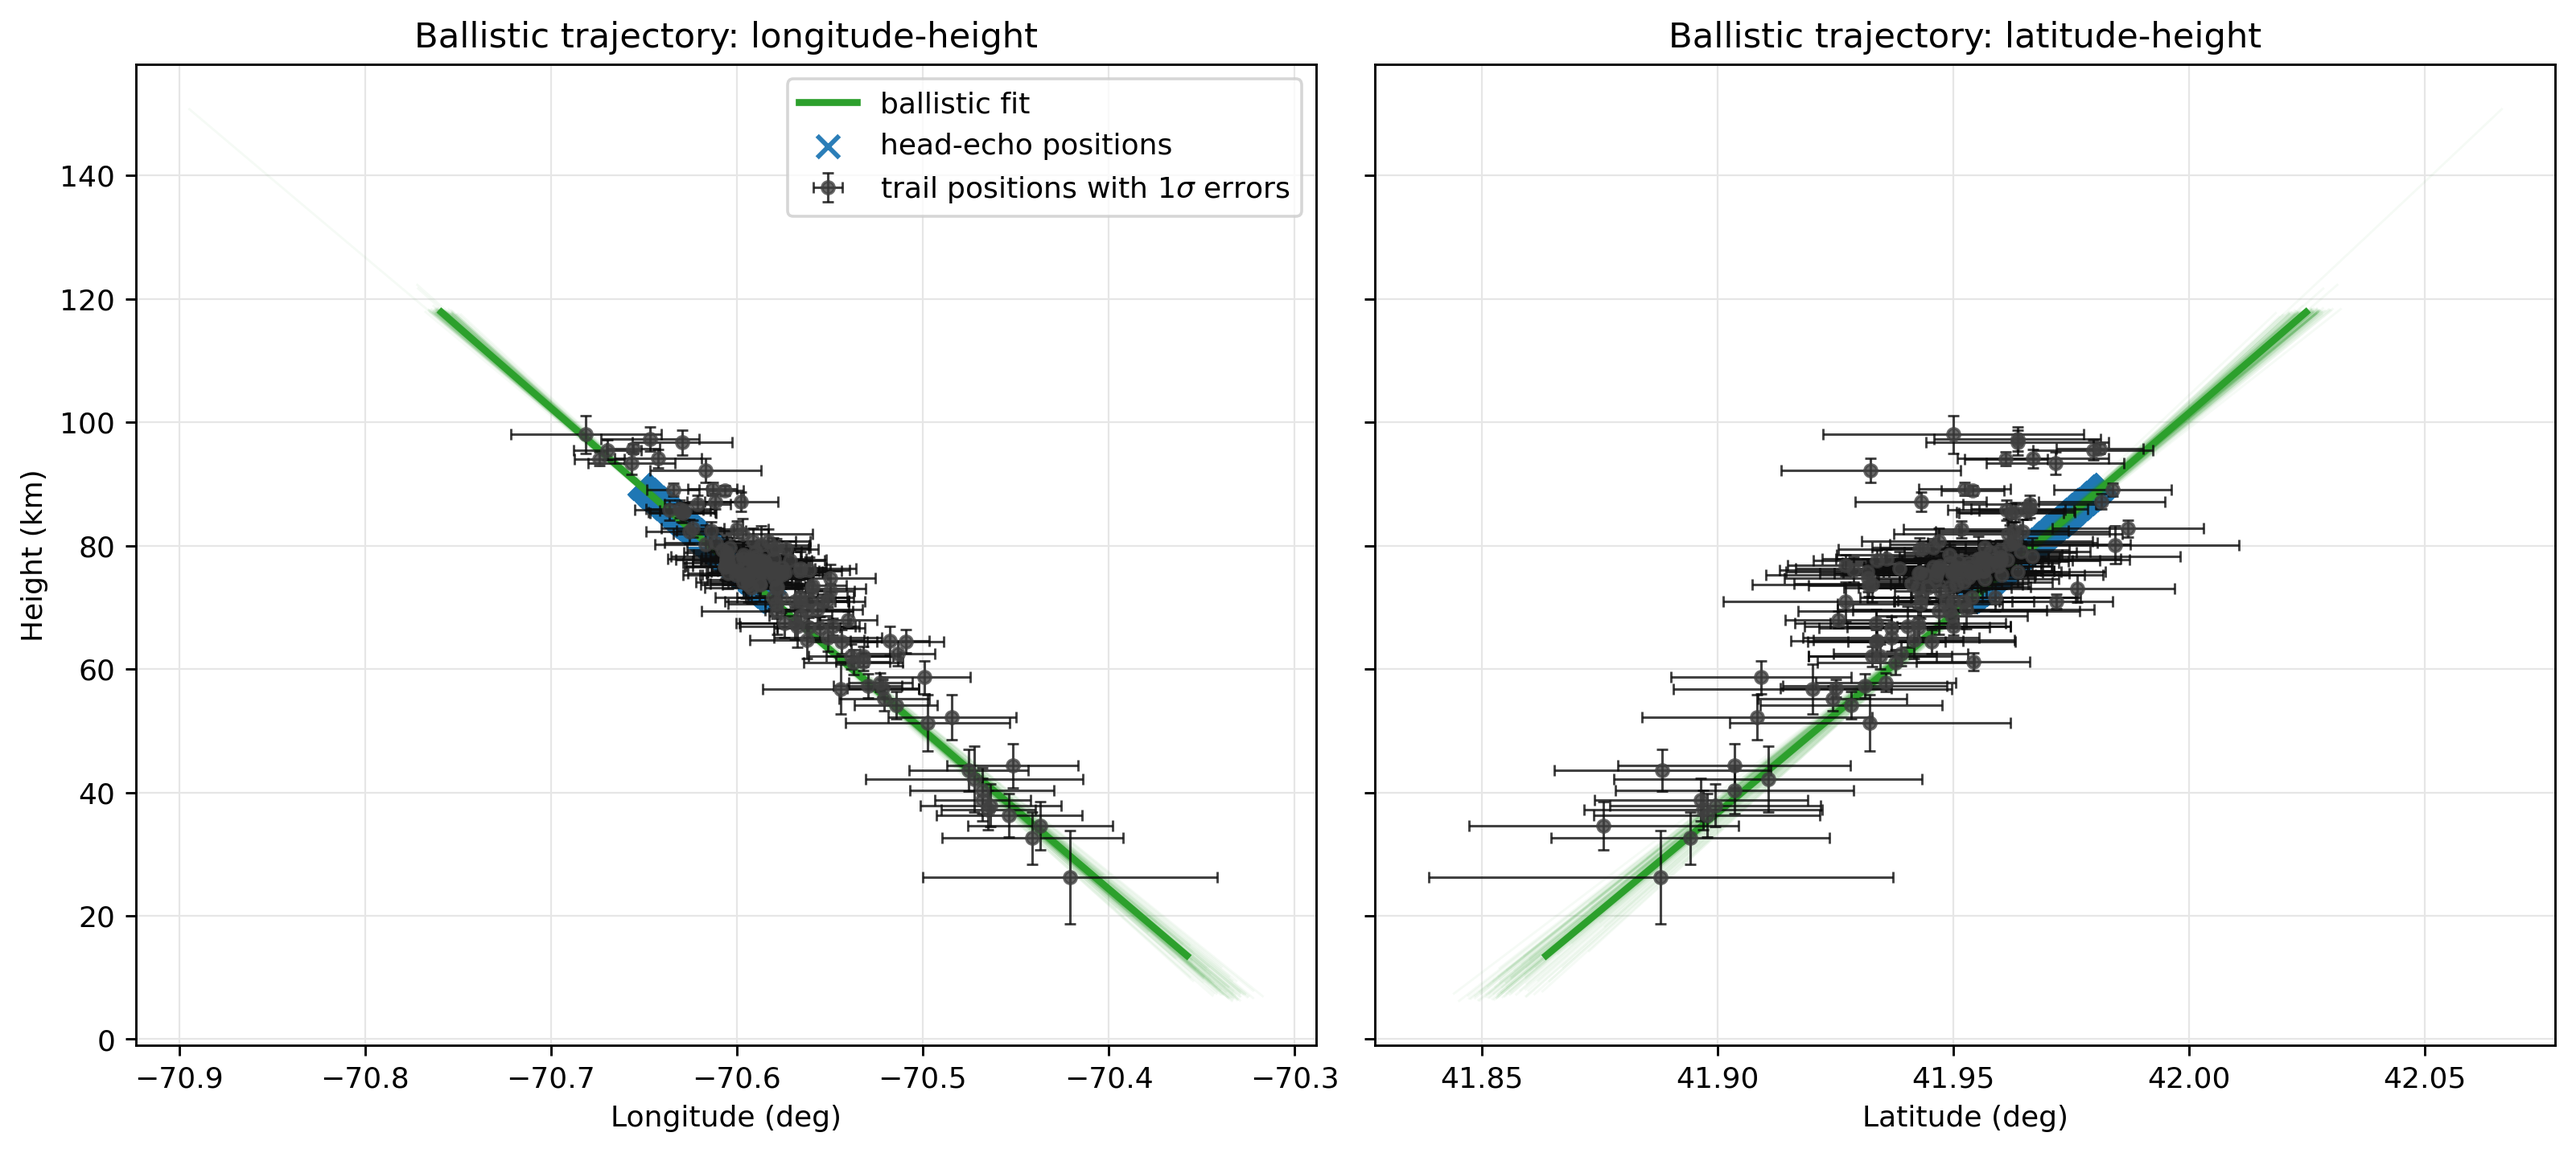
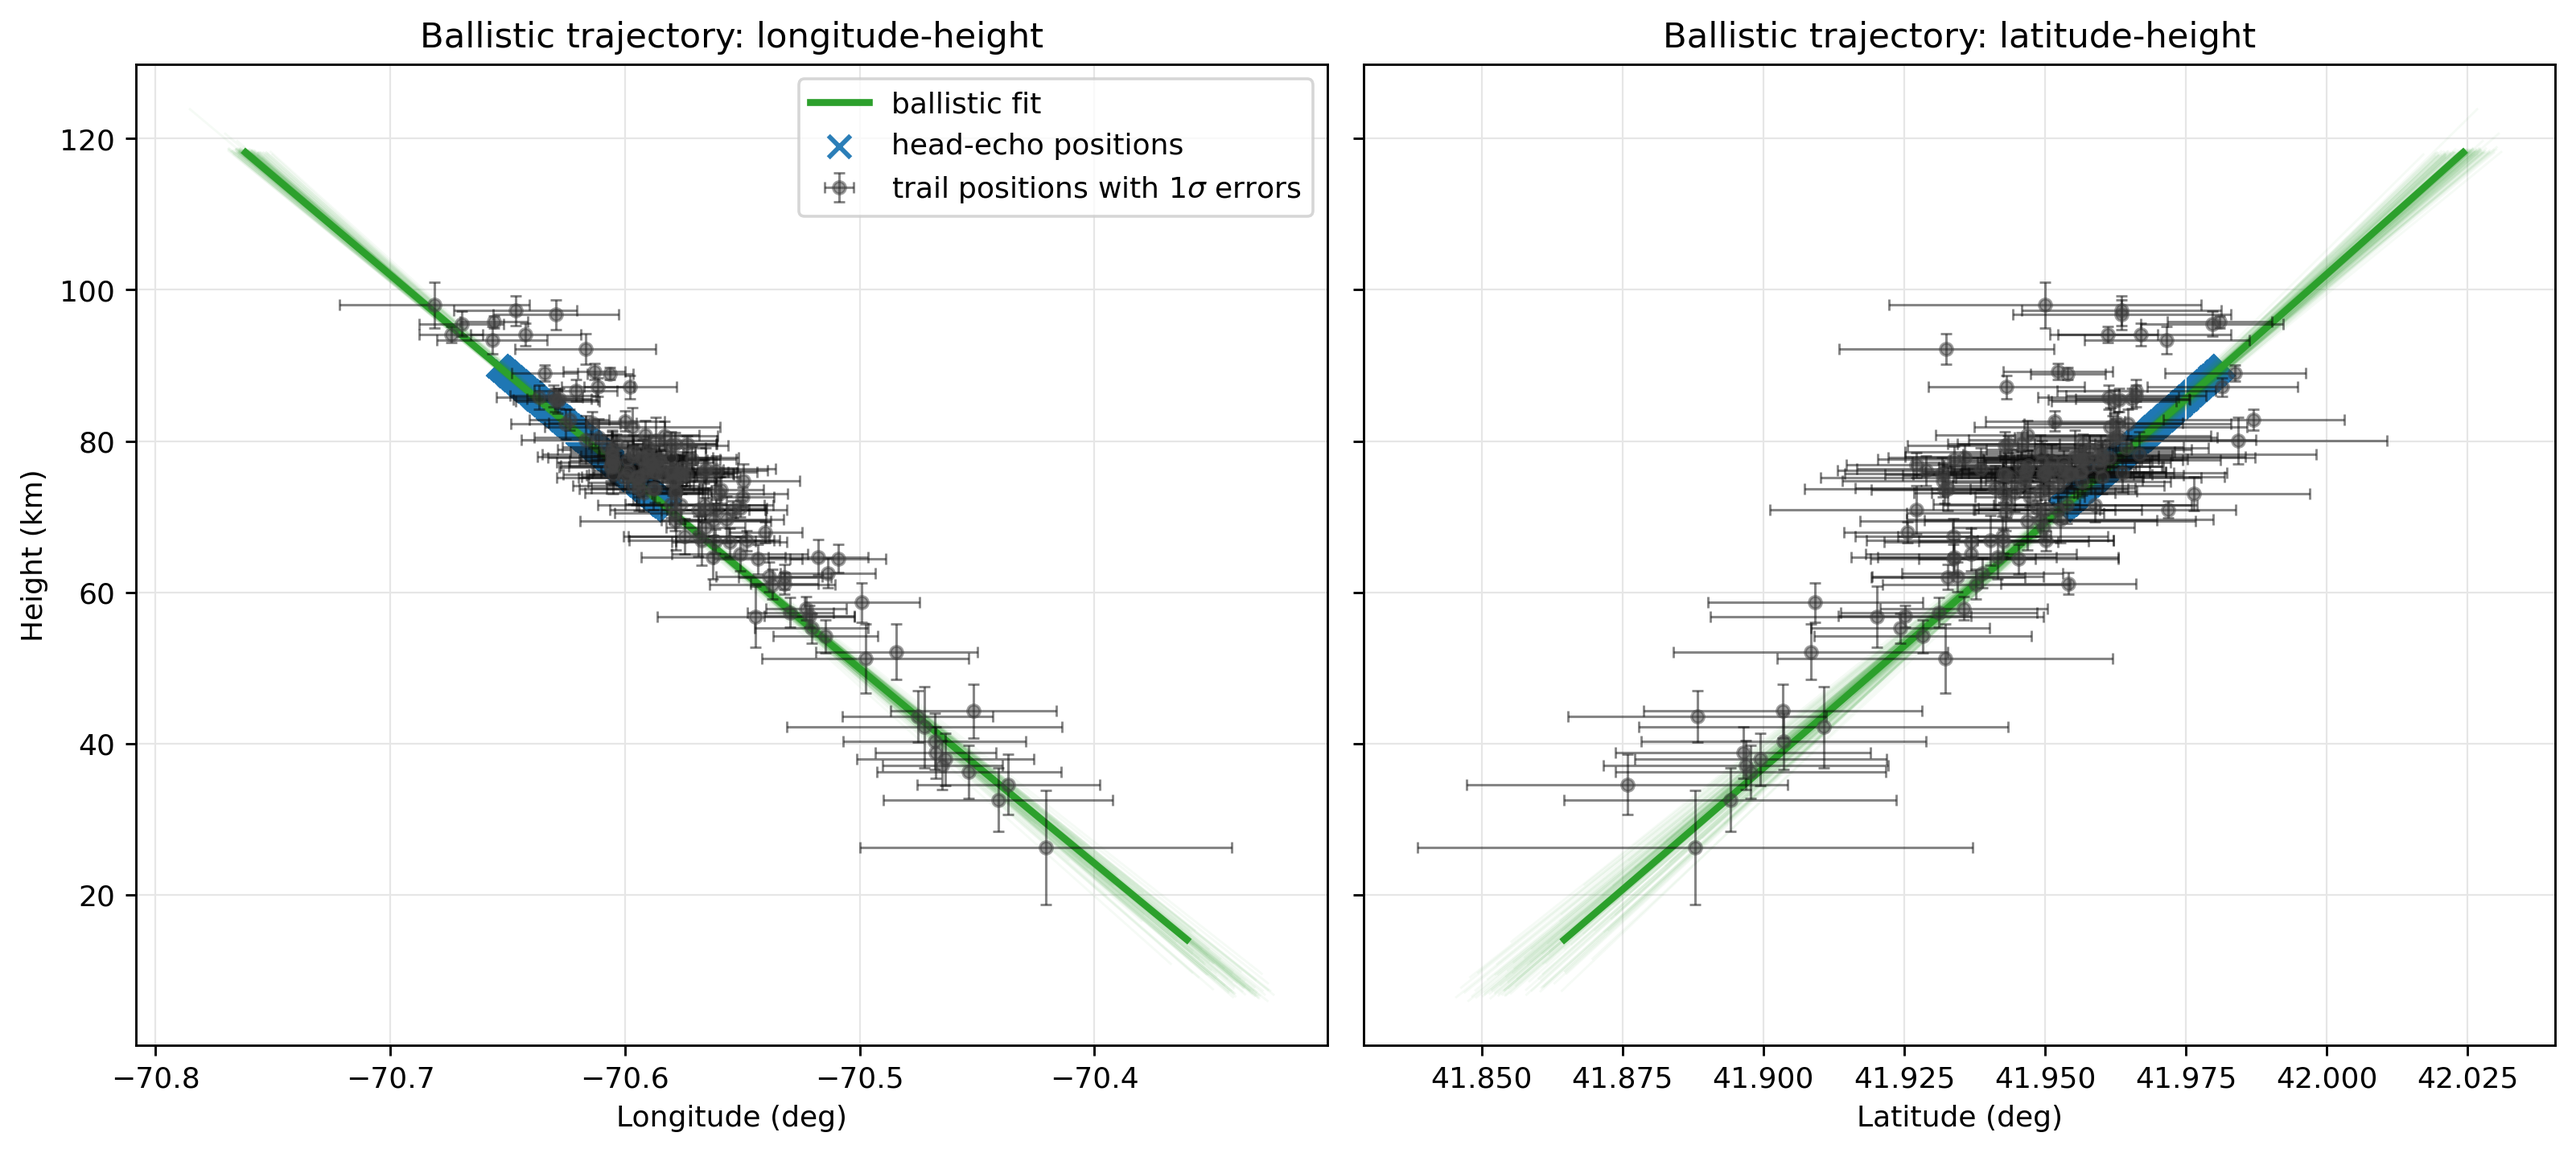
Reduce trail measurement alpha in Figure 7

diff --git a/fit_ballistic_head_trail.py b/fit_ballistic_head_trail.py
@@ -1397,7 +1397,7 @@ def plot_lonlat_height(
             elinewidth=0.85,
             capsize=2.0,
             capthick=0.8,
-            alpha=0.78,
+            alpha=0.5,
             label="trail positions with 1$\\sigma$ errors",
             zorder=6,
         )
